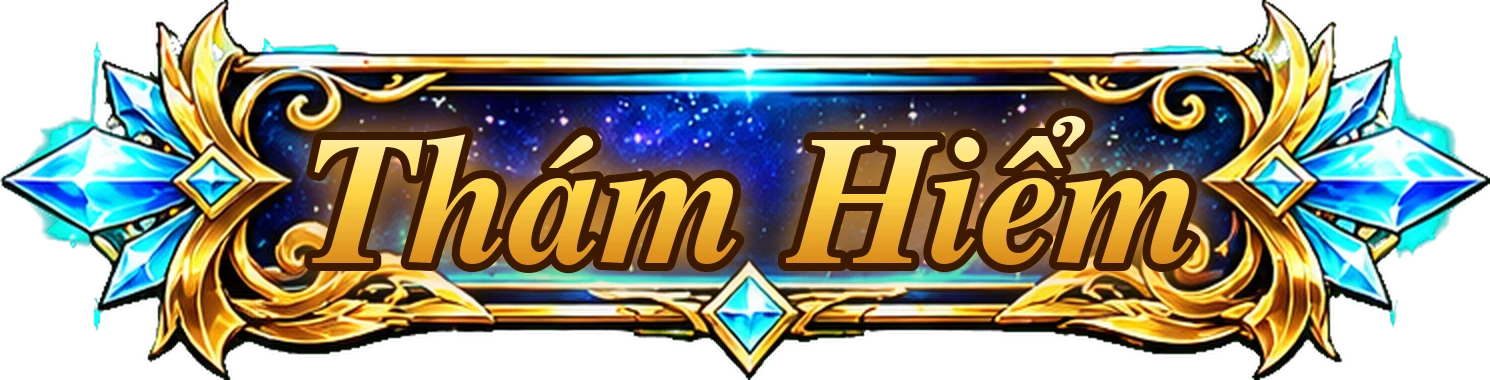
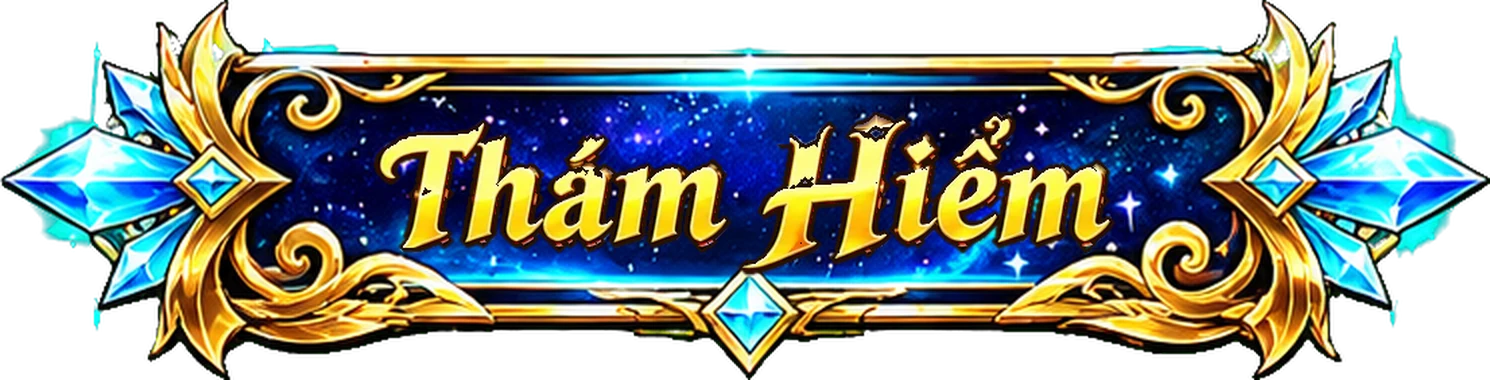
Dung chu Tham Hiem cu ghep vao khung dai moi
Claude-Session: https://claude.ai/code/session_013NdXCEWDDSCjzYC12a5ufM

Changed region(s): [[0.1852, 0.2316, 0.8336, 0.7816]]

diff --git a/game-moi/59-nut-tham-hiem.js b/game-moi/59-nut-tham-hiem.js
@@ -5,7 +5,7 @@
 (function(){
 'use strict';
 if(!window.TTGNV)return;
-TTGNV.add({id:'tham-hiem',ten:'Thám hiểm',image:'game-moi/nut-tham-hiem.webp?v=2',w:112,h:28.5,center:true,onTap:function(){if(window.TTGTHAMHIEM&&TTGTHAMHIEM.start)TTGTHAMHIEM.start();},r:0,offsetY:-5});
+TTGNV.add({id:'tham-hiem',ten:'Thám hiểm',image:'game-moi/nut-tham-hiem.webp?v=3',w:112,h:28.5,center:true,onTap:function(){if(window.TTGTHAMHIEM&&TTGTHAMHIEM.start)TTGTHAMHIEM.start();},r:0,offsetY:-5});
 })();
 /* Nạp danh hiệu nổi trên đầu thú ở sảnh (78-danh-hieu-tren-dau.js). */
 (function(){var s=document.createElement('script');s.src='game-moi/78-danh-hieu-tren-dau.js?v=1';document.head.appendChild(s);})();

diff --git a/game-moi/index.html b/game-moi/index.html
@@ -203,7 +203,7 @@ canvas{position:fixed;left:0;top:0;image-rendering:pixelated;image-rendering:cri
 <script src="game-moi/53-balo.js"></script>
 <script src="game-moi/58-bong-bat.js"></script>
 <script src="game-moi/54-thu-than.js"></script>
-<script src="game-moi/59-nut-tham-hiem.js?v=2"></script>
+<script src="game-moi/59-nut-tham-hiem.js?v=3"></script>
 <script src="game-moi/102-quai-vung.js"></script>
 <script src="game-moi/55-trang-bi.js"></script>
 <script src="game-moi/72-khung-ren-cuong-hoa.js"></script>
